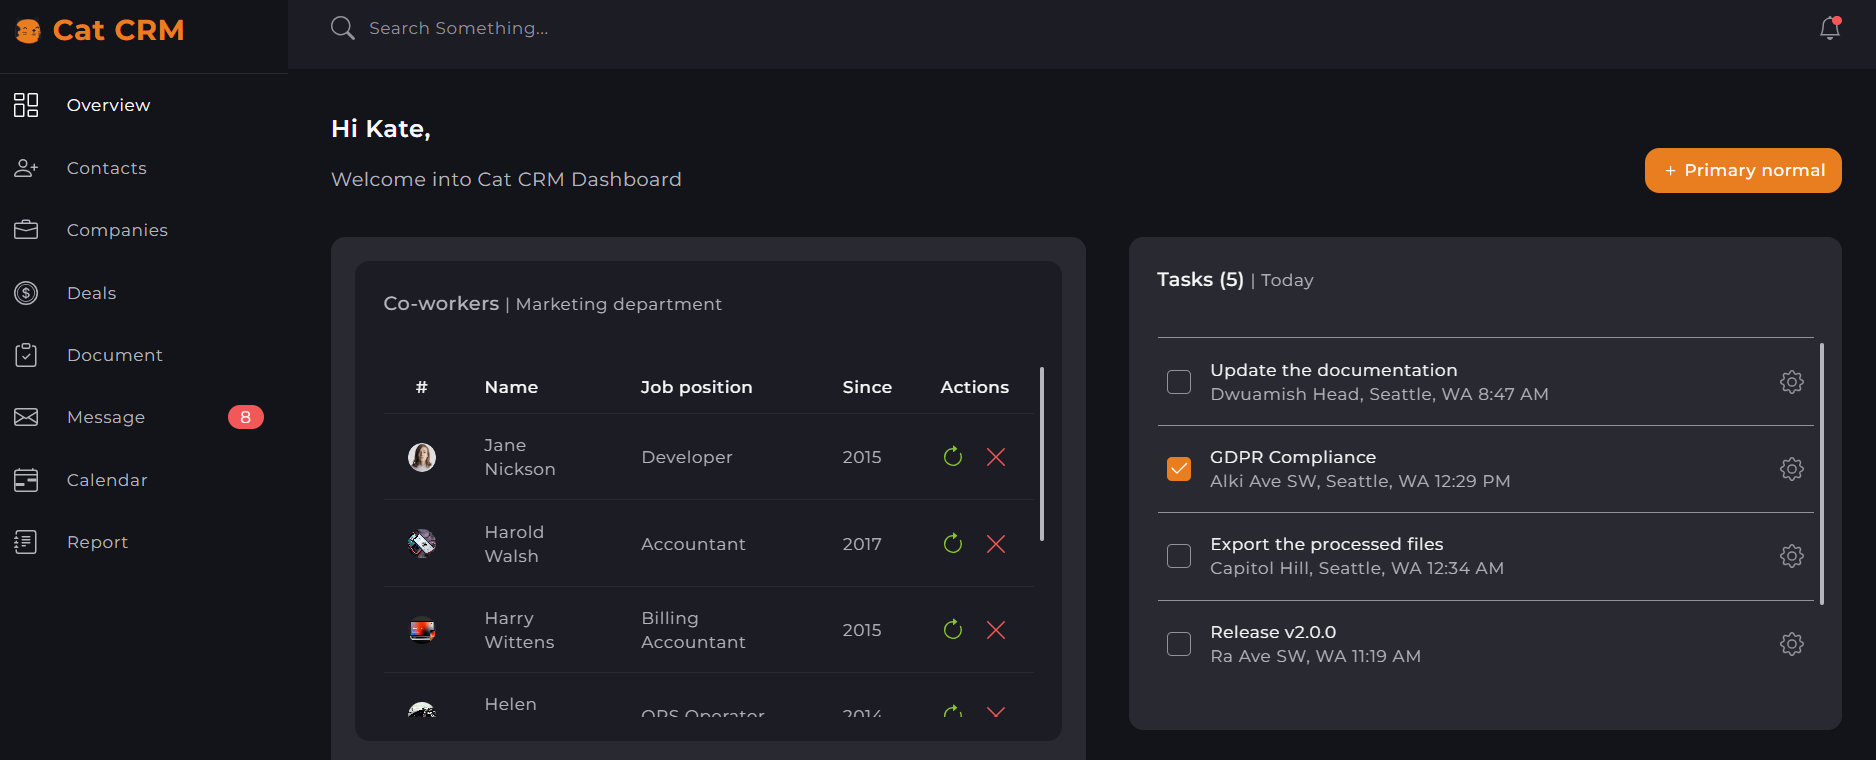
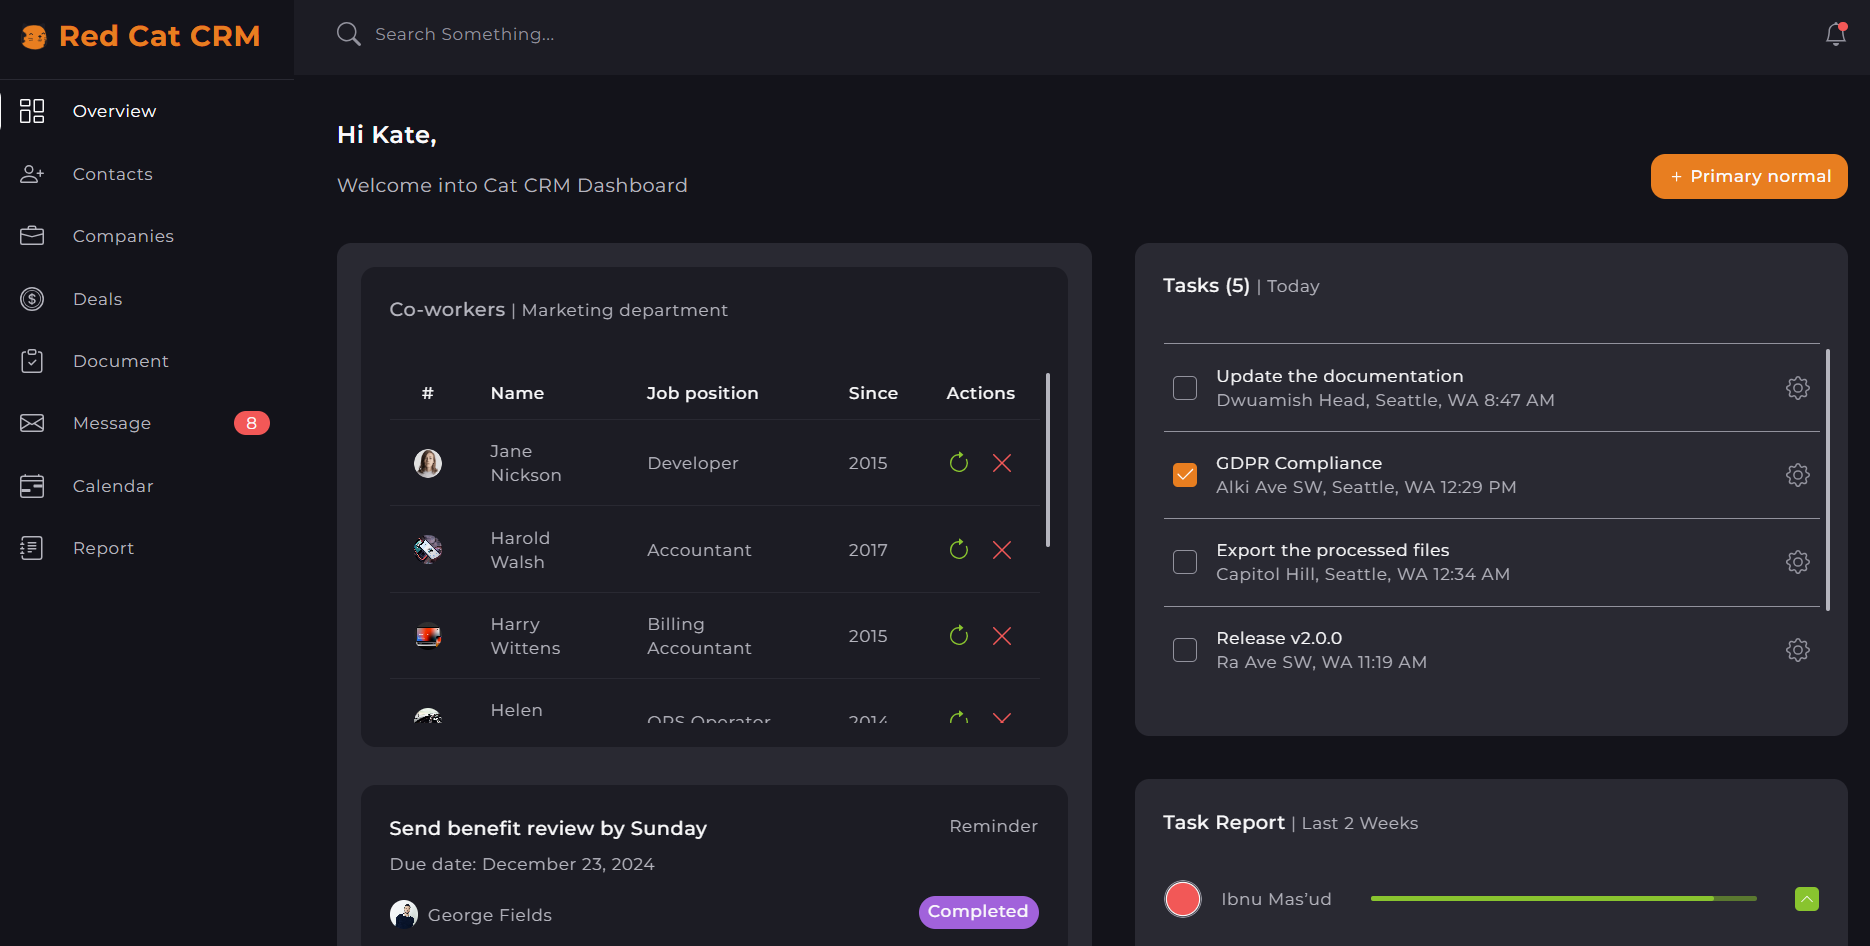
corrected readme file

diff --git a/vite.config.js b/vite.config.js
@@ -1,0 +1,54 @@
+import imagemin from "imagemin";
+import imageminWebp from "imagemin-webp";
+import path from "path";
+import { defineConfig } from "vite";
+import glob from "fast-glob";
+import { fileURLToPath } from "url";
+import { ViteImageOptimizer } from "vite-plugin-image-optimizer";
+import purgecss from "@fullhuman/postcss-purgecss";
+
+export default defineConfig({
+  plugins: [
+    ViteImageOptimizer({
+      png: {
+        quality: 86,
+      },
+      jpeg: {
+        quality: 86,
+      },
+      jpg: {
+        quality: 86,
+      },
+    }),
+    {
+      ...imagemin(["./src/img/**/*.{jpg,png,jpeg}"], {
+        destination: "./src/img/webp/",
+        plugins: [imageminWebp({ quality: 86 })],
+      }),
+      apply: "serve",
+    },
+    purgecss({
+      content: ["./**/*.html"],
+    }),
+  ],
+  build: {
+    minify: false, // disable minification
+    rollupOptions: {
+      input: Object.fromEntries(
+        glob
+          .sync(["./*.html", "./pages/**/*.html"])
+          .map((file) => [
+            path.relative(
+              __dirname,
+              file.slice(0, file.length - path.extname(file).length)
+            ),
+            fileURLToPath(new URL(file, import.meta.url)),
+          ])
+      ),
+      // output unminified CSS file
+      output: {
+        assetFileNames: "assets/[name].[ext]",
+      },
+    },
+  },
+});

diff --git a/index.html b/index.html
@@ -4,7 +4,7 @@
     <meta charset="UTF-8" />
     <meta name="viewport" content="width=device-width, initial-scale=1.0" />
     <link rel="icon" href="./public/favicon.ico" type="image/x-icon" />
-    <title>Cat CRM</title>
+    <title>Red Cat CRM</title>
   </head>
   <body class="page">
     <aside class="sidebar js-menu" id="sidebar-menu">
@@ -23,7 +23,7 @@
           <svg class="logo-icon" width="24" height="24">
             <use href="./src/img/icons.svg#icon-logo"></use>
           </svg>
-          Cat CRM
+          Red Cat CRM
         </a>
 
         <ul class="menu-list">
